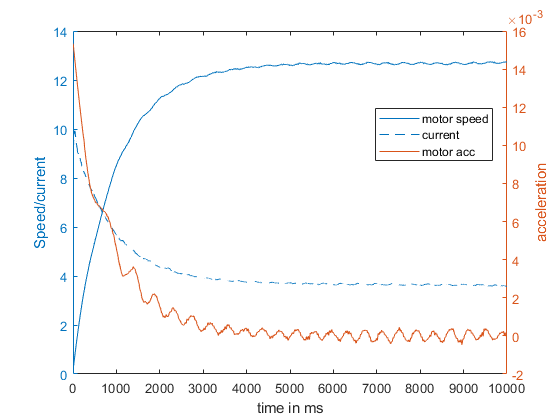
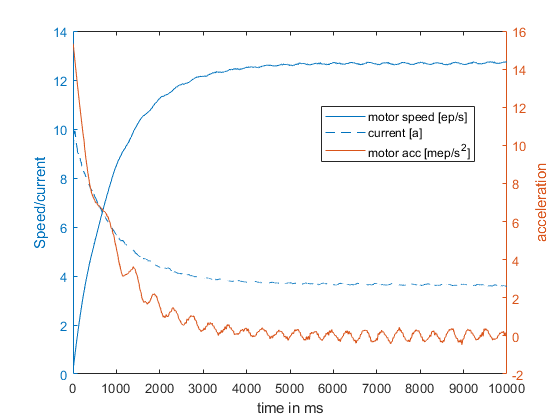
Indsættelse af enheder
NB. nu er accelerationen allerede i milli, så vær opmærksom på dette hvis du bruger scriptet

Changed region(s): [[0.5768, 0.2476, 0.8804, 0.4024], [0.9107, 0.031, 0.9714, 0.0619]]

diff --git a/04 Prototype udvikling/2 akset rotation/06 Opstilling af model/Data og behandling fra max speed test/Tilt/MatlabPlot_tilt.m b/04 Prototype udvikling/2 akset rotation/06 Opstilling af model/Data og behandling fra max speed test/Tilt/MatlabPlot_tilt.m
@@ -2,8 +2,8 @@ clc;
 clear all;
 close all;
 
-current = '125_tilt_current.txt';
-motor = '125_tilt_motor.txt';
+current = '200_tilt_current.txt';
+motor = '200_tilt_motor.txt';
 
 table_motor = readtable(motor);
 table_current = readtable(current);
@@ -65,9 +65,9 @@ yyaxis right;
 vel_motor_smoothed = sgolayfilt(vel_motor, 3, 51);
 
 acc = gradient(vel_motor_smoothed, time_motor);
-plot(time_motor, acc,'DisplayName', 'Motor acceleration d/dt(pulse/ms)')
+plot(time_motor, acc*10^3,'DisplayName', 'Motor acceleration d/dt(pulse/ms)')
 ylabel('acceleration')
-legend("motor speed", "current", "motor acc", 'Location', 'best')
+legend("motor speed [ep/s]", "current [A]", "motor acc [mep/s^2]", 'Location', 'best')
 xlabel('time in ms');
 xlim([0 10e3])
 hold off

diff --git a/04 Prototype udvikling/2 akset rotation/06 Opstilling af model/Data og behandling fra max speed test/Azi/MatlabPlot_azi.m b/04 Prototype udvikling/2 akset rotation/06 Opstilling af model/Data og behandling fra max speed test/Azi/MatlabPlot_azi.m
@@ -2,8 +2,8 @@ clc;
 clear all;
 close all;
 
-current = '200_azi_current.txt';
-motor = '200_azi_motor.txt';
+current = '230_azi_current.txt';
+motor = '230_azi_motor.txt';
 
 table_motor = readtable(motor);
 table_current = readtable(current);
@@ -67,9 +67,9 @@ yyaxis right;
 vel_motor_smoothed = sgolayfilt(vel_motor, 3, 51);
 
 acc = gradient(vel_motor_smoothed, time_motor);
-plot(time_motor, acc,'DisplayName', 'Motor acceleration d/dt(pulse/ms)')
+plot(time_motor, acc*10^3,'DisplayName', 'Motor acceleration d/dt(pulse/ms)')
 ylabel('acceleration')
-legend("motor speed", "current", "motor acc", 'Location', 'best')
+legend("motor speed [ep/s]", "current [a]", "motor acc [mep/s^2]", 'Location', 'best')
 xlabel('time in ms');
 xlim([0 10e3])
 hold off
